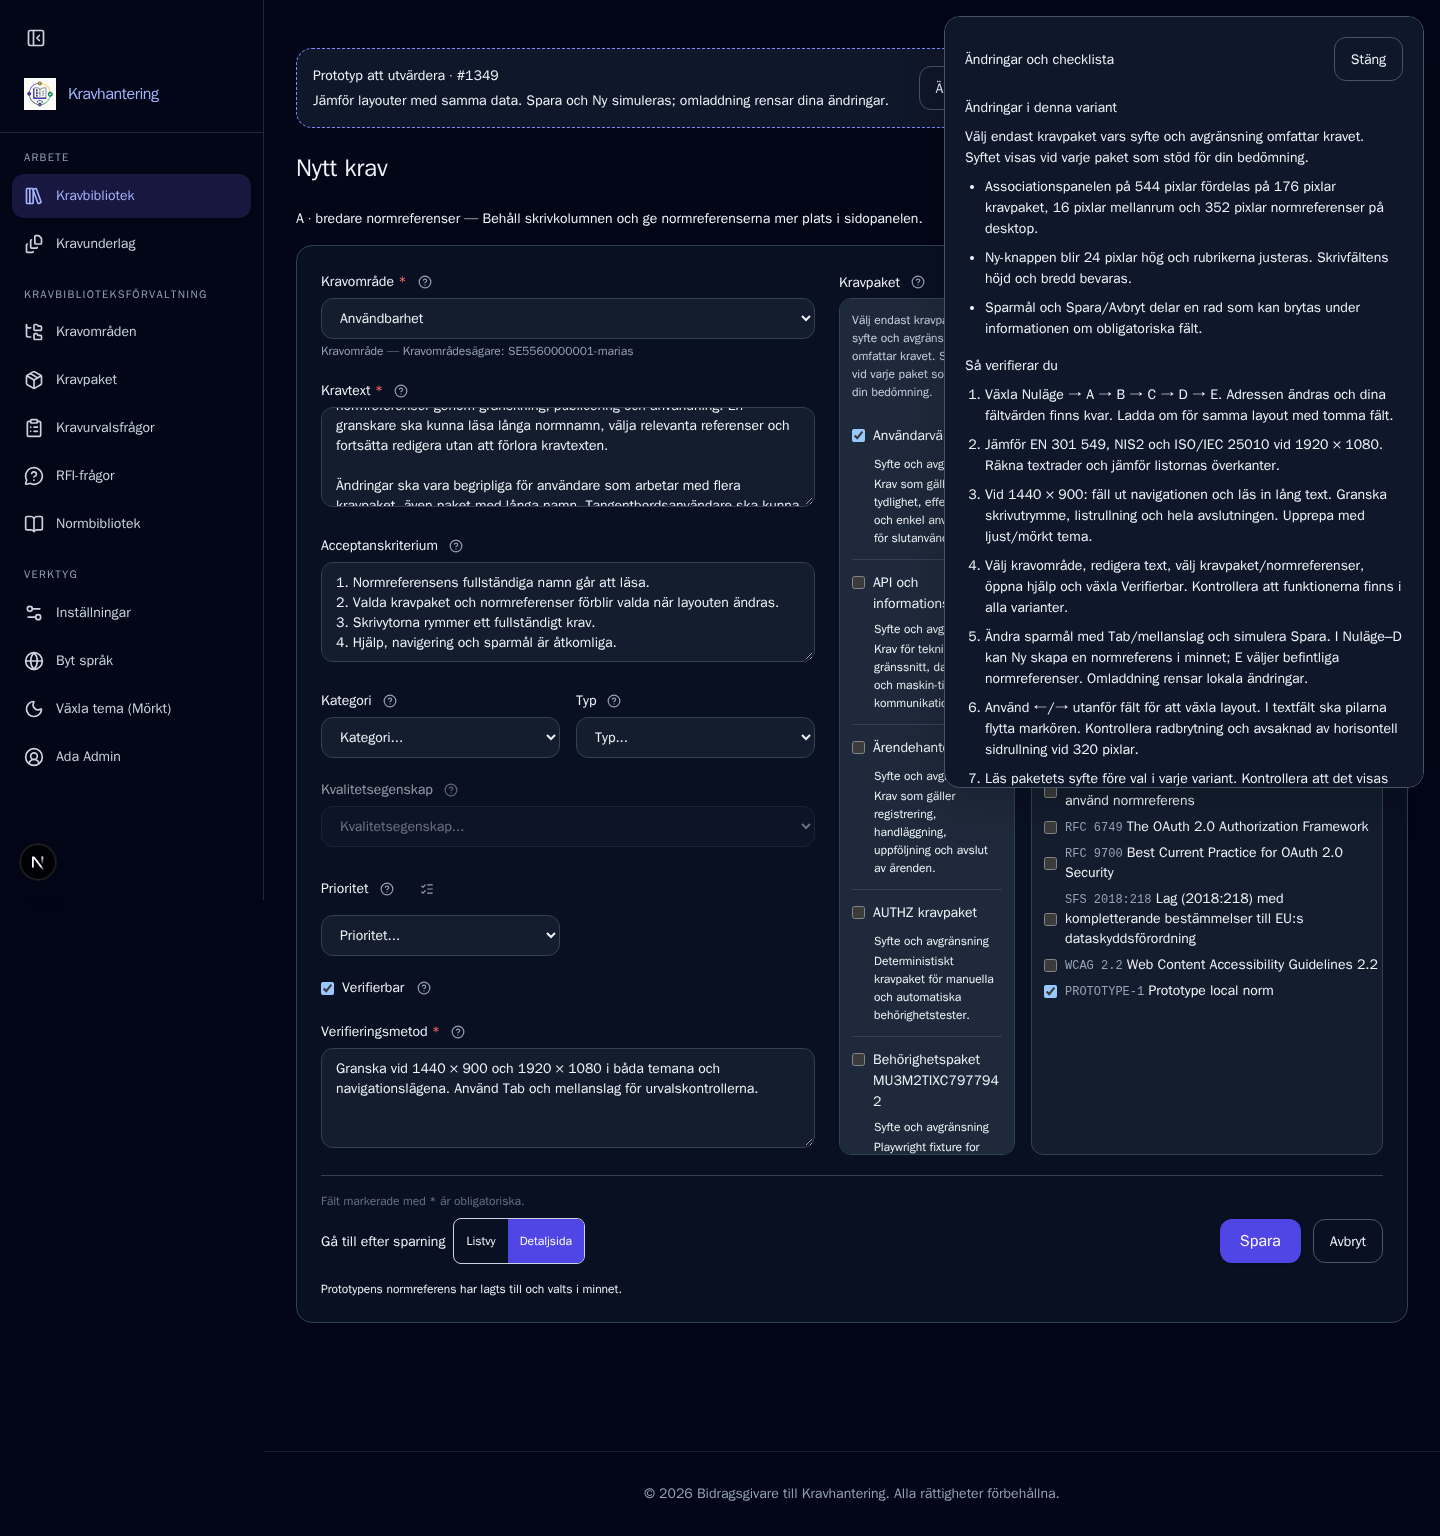
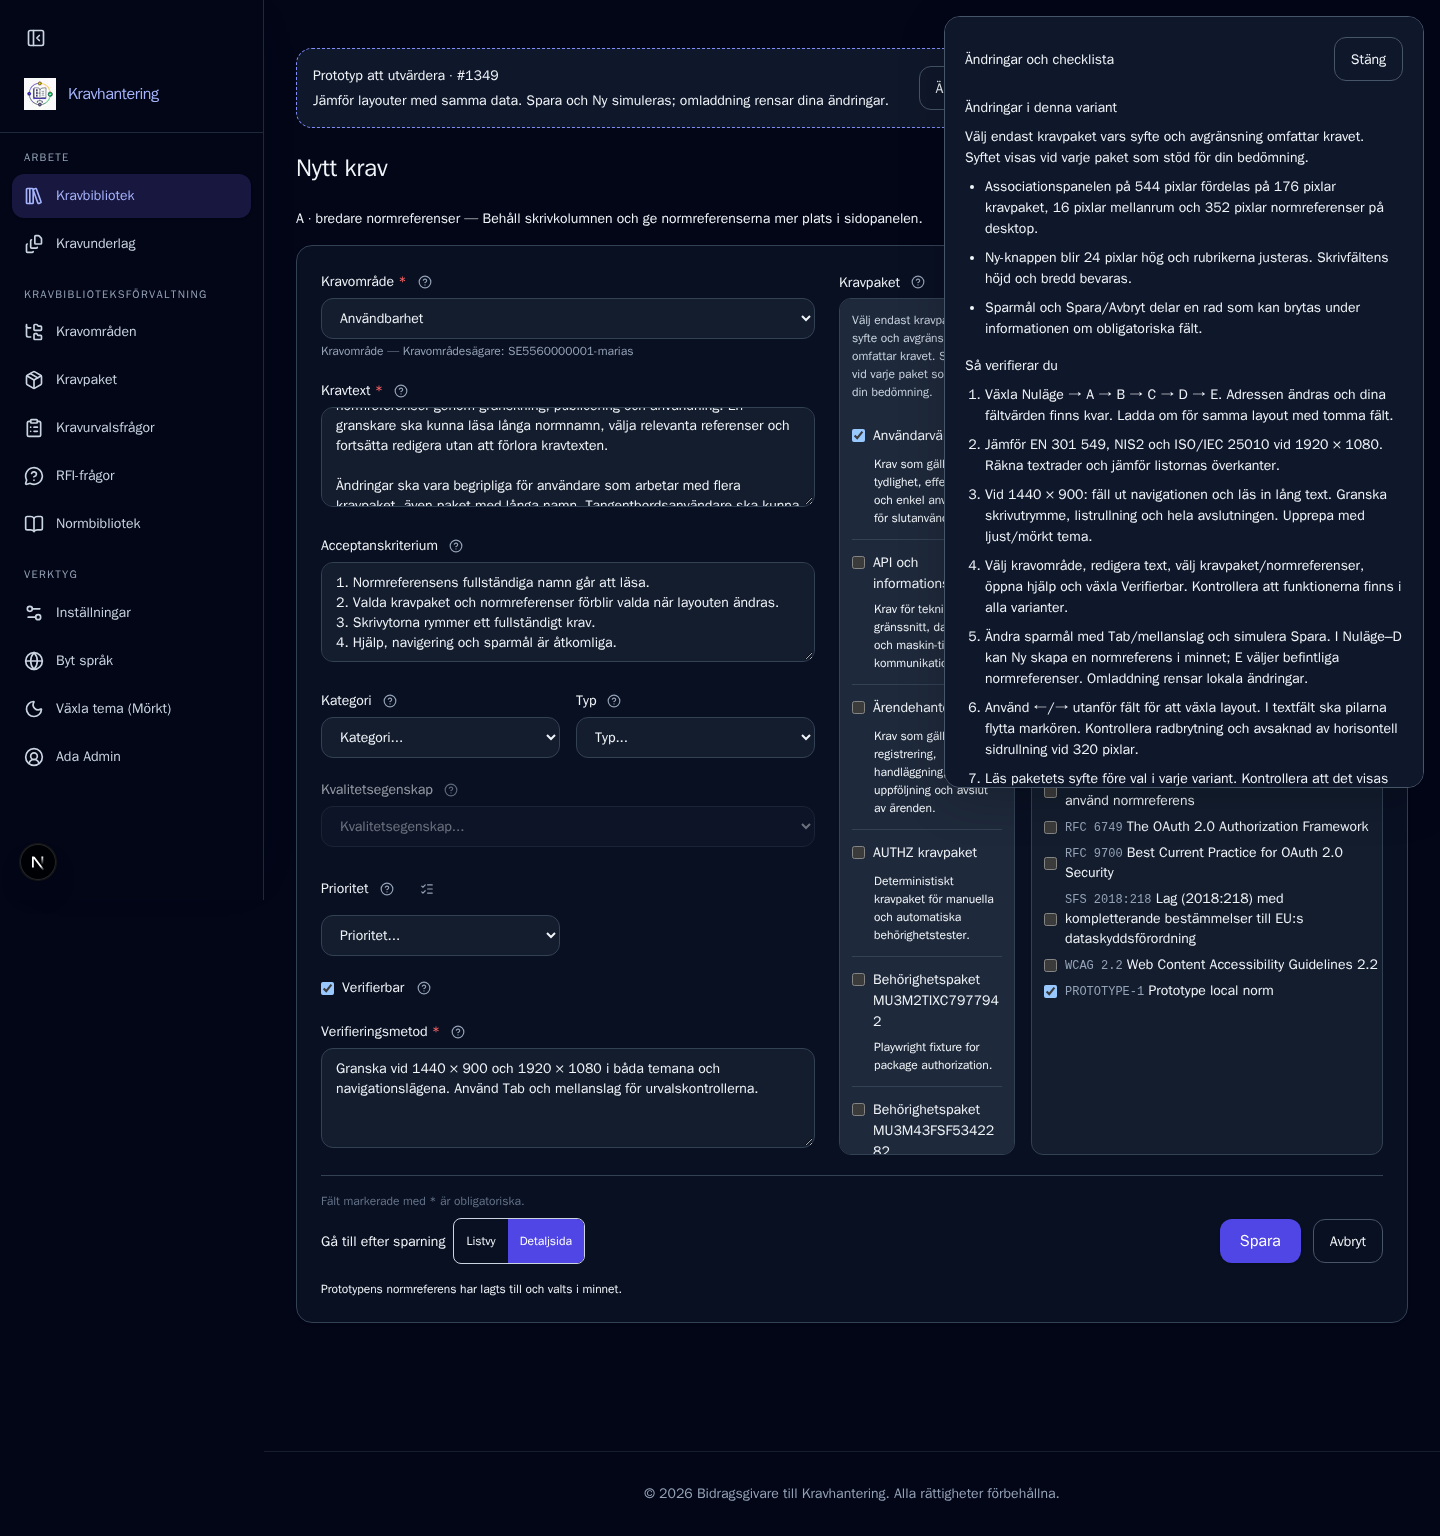
prototype: show package purpose without repeated headings

Changed region(s): [[0.5938, 0.2812, 0.6875, 0.75]]

diff --git a/components/PrototypeRequirementAssociations.tsx b/components/PrototypeRequirementAssociations.tsx
@@ -108,9 +108,6 @@ export default function PrototypeRequirementAssociations({
               className="prototype-1349-purpose"
               id={`prototype-${kind}-${modal ? 'modal' : 'inline'}-${item.id}-purpose`}
             >
-              <span className="prototype-1349-purpose-label">
-                {t('purposeLabel')}
-              </span>
               <p>{item.purpose || t('missingPurpose')}</p>
             </div>
           )}

diff --git a/app/[locale]/requirements/new/requirement-form.prototype.css b/app/[locale]/requirements/new/requirement-form.prototype.css
@@ -365,11 +365,6 @@
   overflow-wrap: anywhere;
   white-space: pre-wrap;
 }
-.prototype-1349-purpose-label {
-  display: block;
-  margin-bottom: 0.125rem;
-  font-weight: 600;
-}
 .prototype-1349-picker input[type="search"] {
   width: 100%;
   padding: 0.625rem 0.75rem;

diff --git a/docs/prototypes/1349/GRANSKNING.md b/docs/prototypes/1349/GRANSKNING.md
@@ -41,7 +41,8 @@ på 662 pixlar och urvalsrutor på 260 pixlar.
 
 ## Paketens syfte i samtliga varianter
 
-**Syfte och avgränsning** visas direkt under varje paketnamn vid urvalet.
+Paketets syfte visas direkt under namnet, utan en upprepad rubrik.
+Texten är mindre än paketnamnet: 12 respektive 14 pixlar.
 I Nuläge–D visas det i formulärets paketlista; i E visas det i dialogen.
 Det behövs ingen hovring för att läsa syftet innan man väljer.
 
